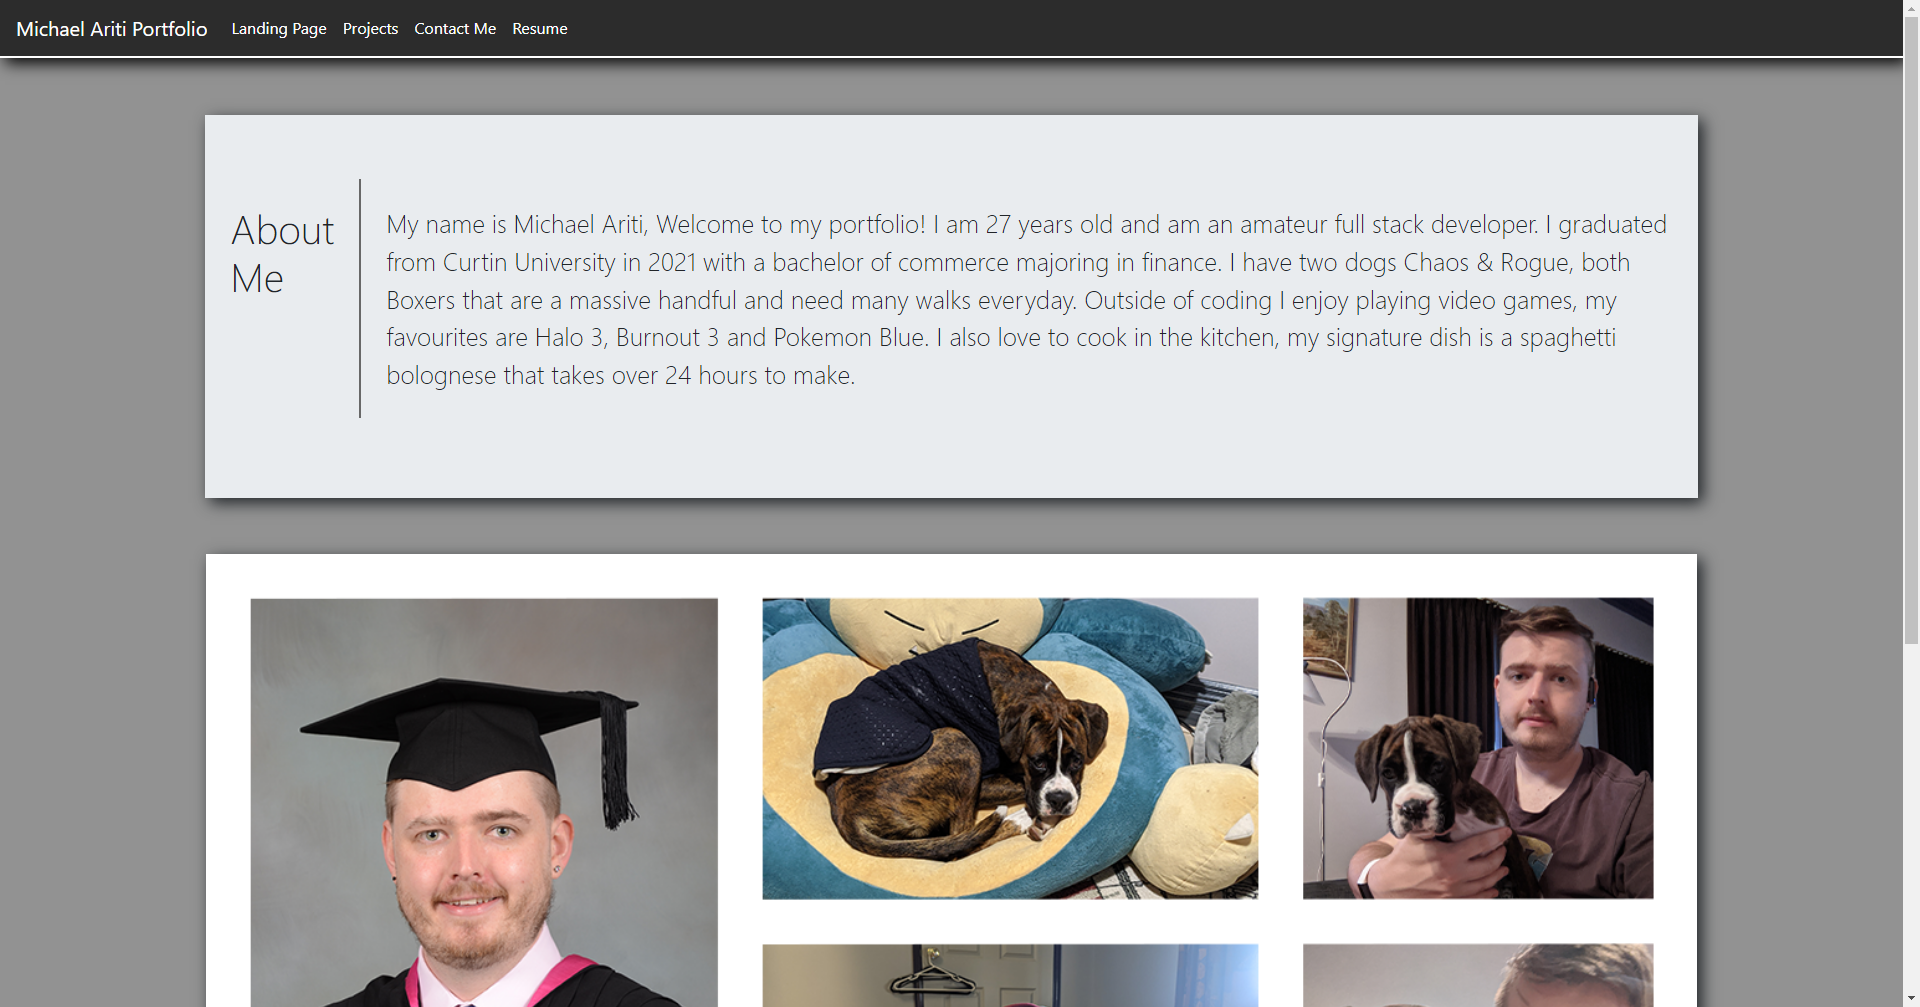
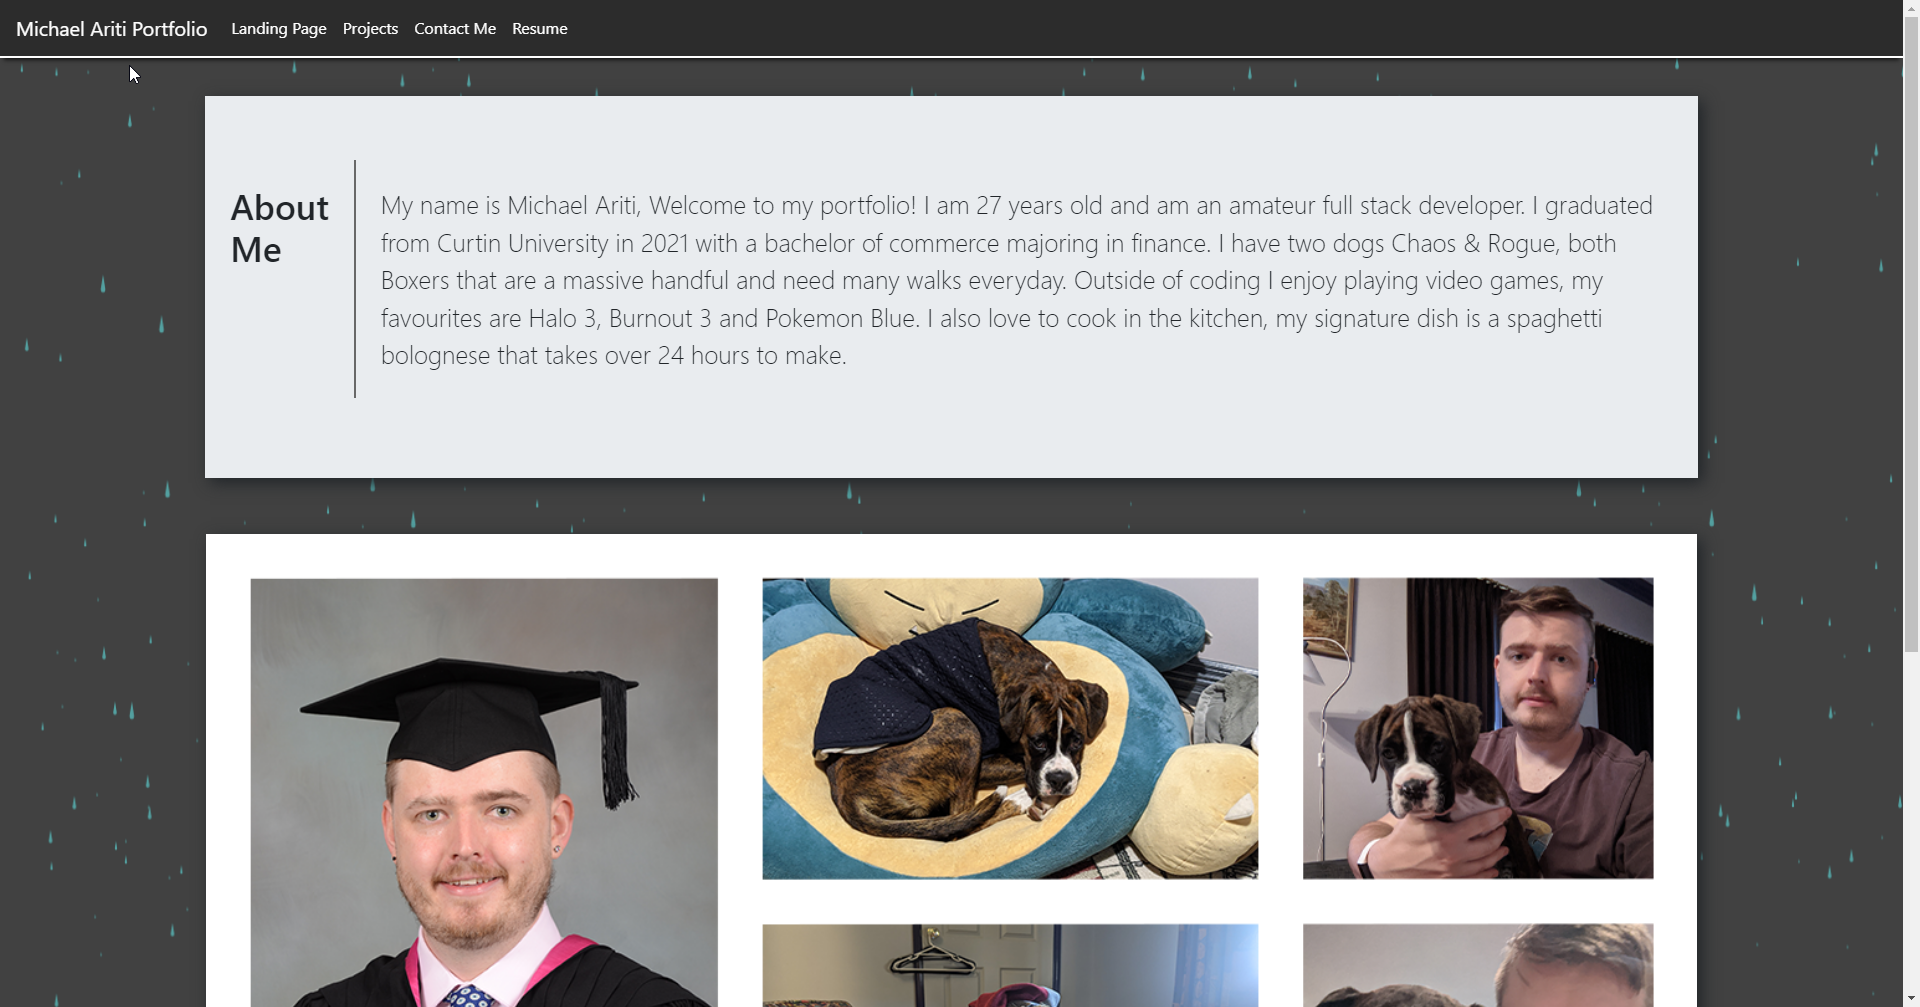
animated background woot

diff --git a/ReadMe.md b/ReadMe.md
@@ -24,6 +24,8 @@ The purpose of this repository is to create a portfolio for myself that keeps al
 2. My contact information.
 3. My best projects so far with descriptions and screenshots of each.
 4. My resume available for download or viewing.
+5. Mobile Responsiveness.
+6. Animated background.
 ```
 
 ## File Directory
